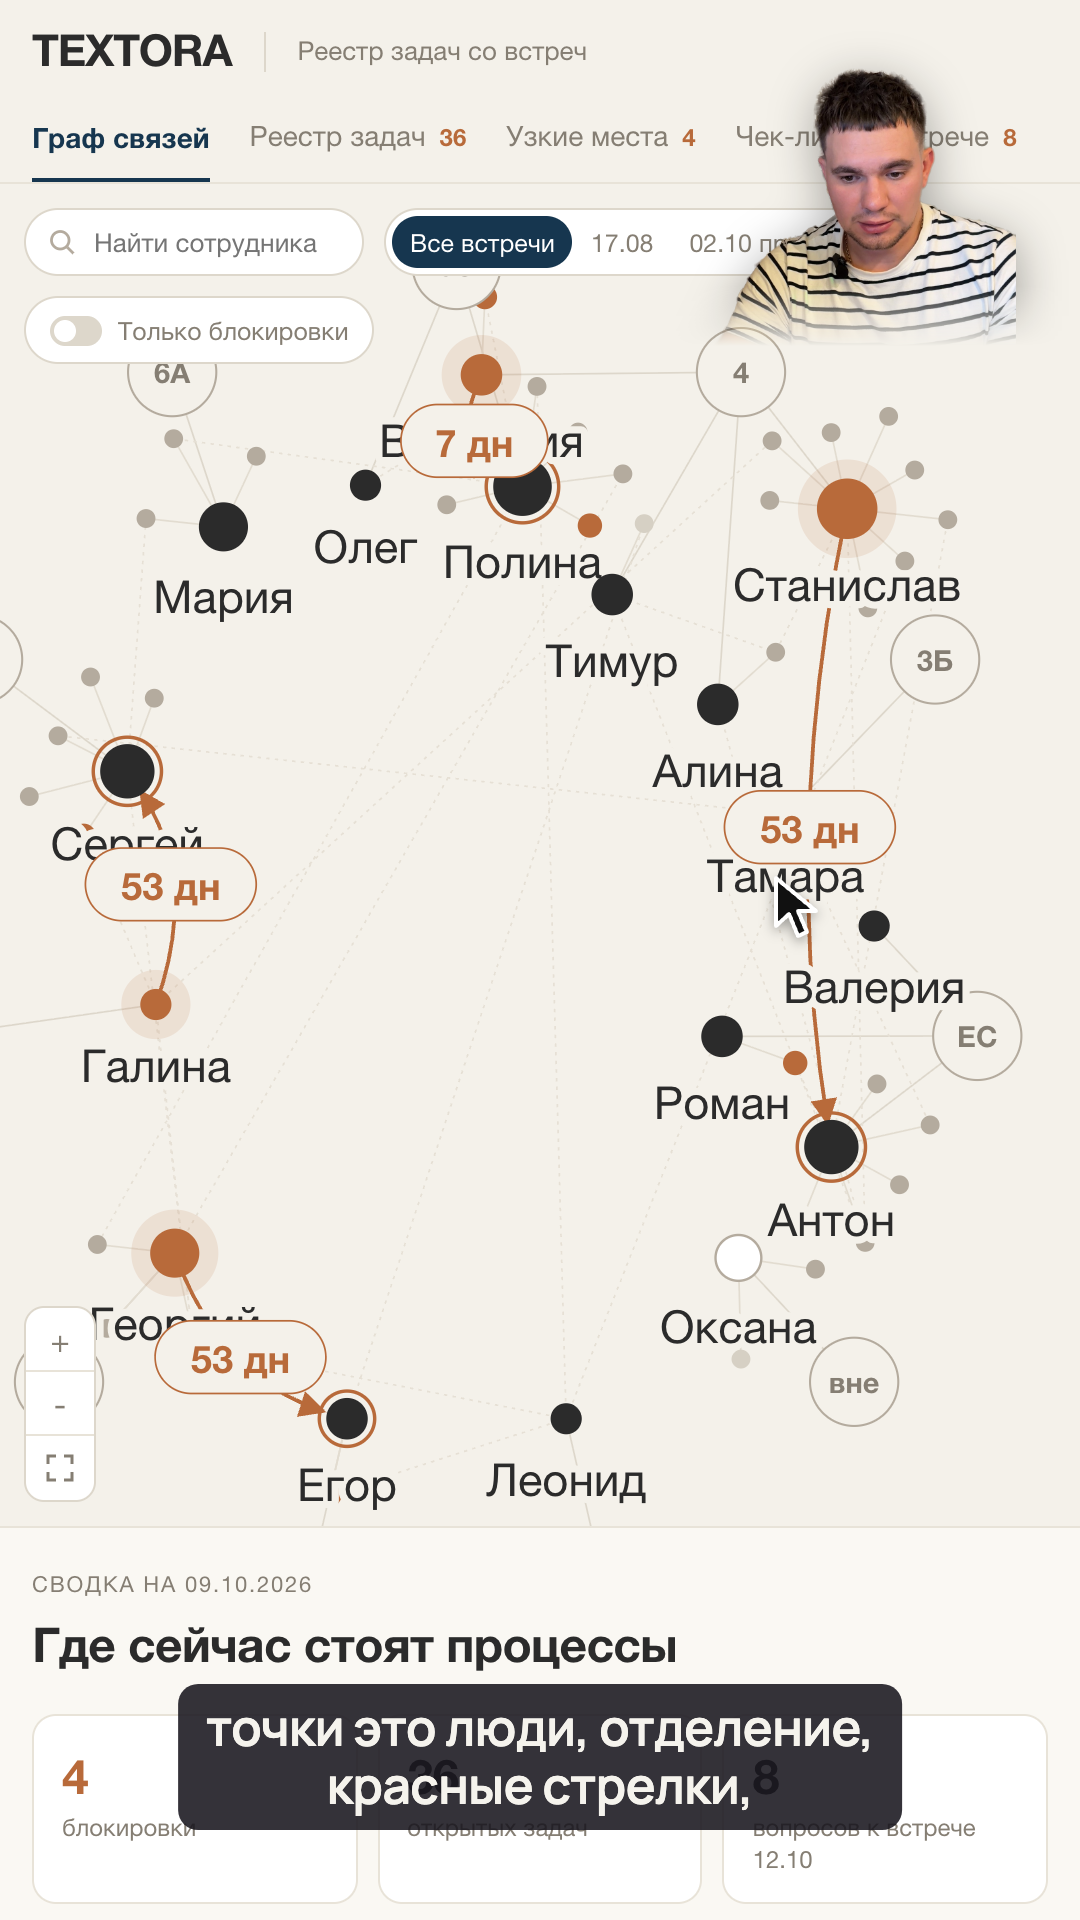
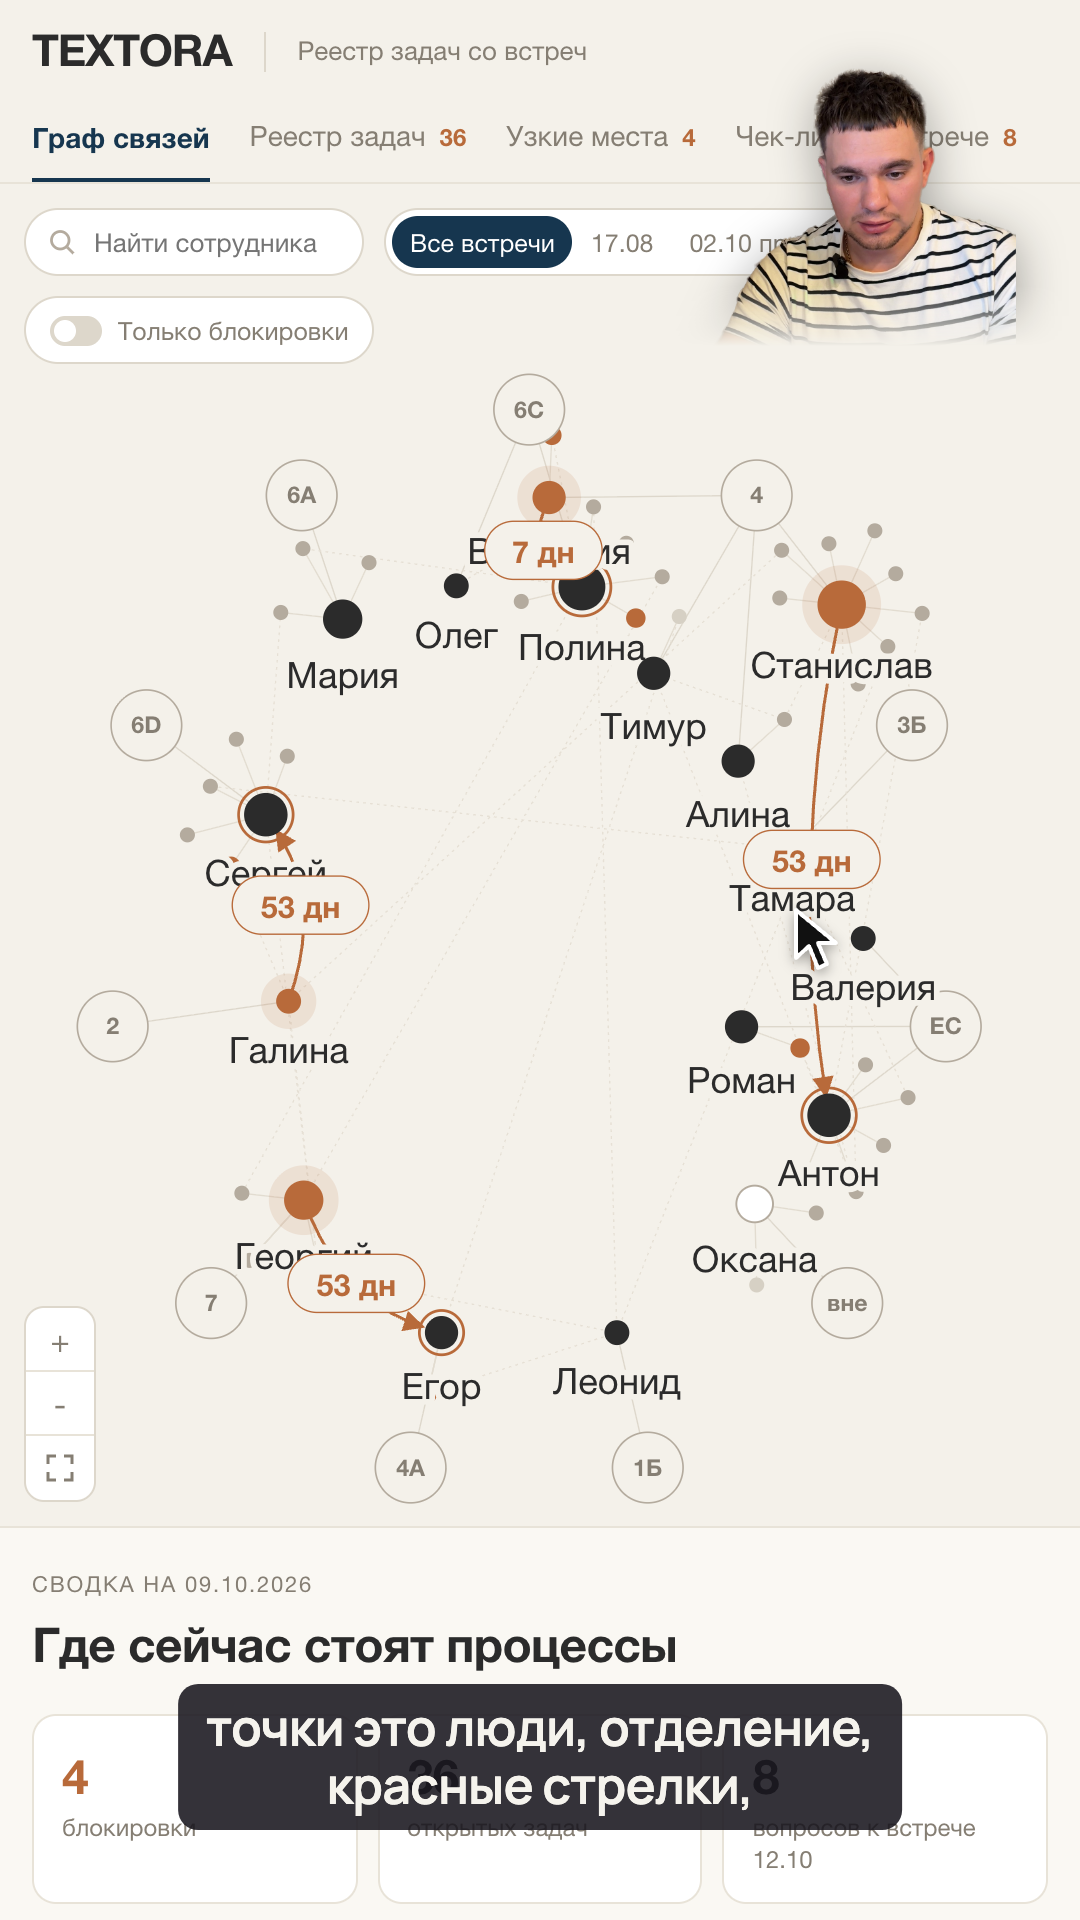
Правило отдаления: объект целиком, общий вид x1,0, деталь до x1,12; эталон кадра графа

diff --git a/SKILL.md b/SKILL.md
@@ -77,6 +77,8 @@ description: Видеомонтаж вертикальных роликов-об
 
 - Кадр 1080x1920. Обзор продукта во весь кадр, без шапки, меток и заголовков сцен поверх экрана.
 - Наезд допустим только как приближение пальцами без потери смысла (`keys` сцены). По умолчанию весь кадр, ключи `[]`.
+- Отдаление (утверждено Антоном 21.10.2026 на графе связей): объект показываем целиком, с полями, ни один узел, подпись или кружок не режется краем кадра. Эталон - `examples/kadr_graf.png`. Общий вид графа или схемы - без приближения (x1,0 от вида страницы в окне 540x960); деталь - не сильнее x1,12, приближать над тем, о чем говорят. Было x1,25 и x1,4: Антон забраковал ("все на поверхности"), выбрал отдаление на 20% по мокапу 20/30/40%. При сомнении - мокап нескольких уровней отдаления до записи.
+- Курсор не наводить на элементы, которые открывают всплывающую подсказку у края окна: она режется. Вести курсор рядом.
 - Автор: голова 105 px шириной, центр 870,150, бюст до 1,3 ширины головы ниже центра, дальше растворение 60 px. Хук идет полным кадром автора, через 0,1 с после хука фигура за 0,75 с уезжает в угол.
 - Субтитры: плашка графит, Manrope 600, до 2 строк, центр около y 1757. Безопасные поля Instagram: сверху 220, снизу 420 для текста интерфейса площадки.
 - Хук 1 с: две строки до 820 px шириной и подзаголовок. Финал 1 с: вопрос до 3 строк, логотип или имя канала.
